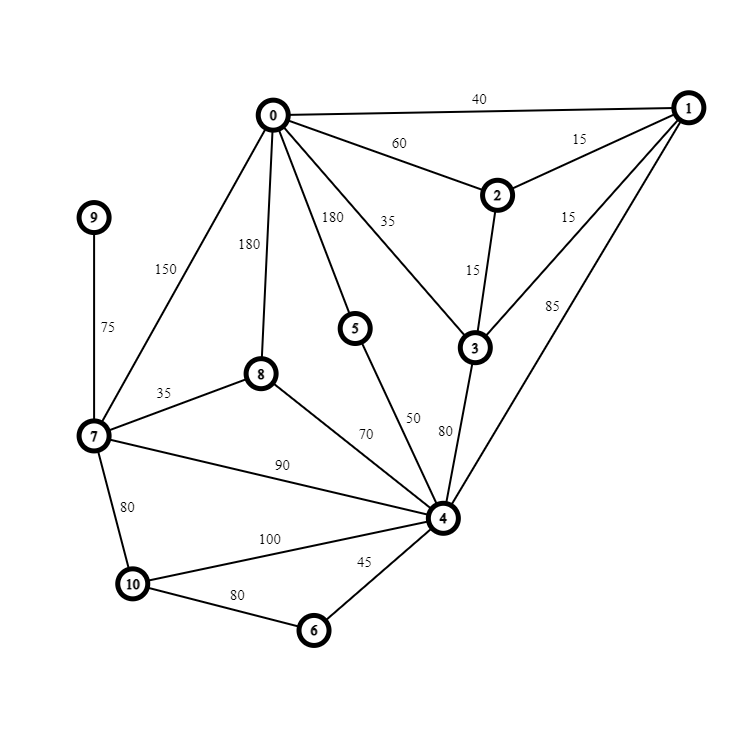
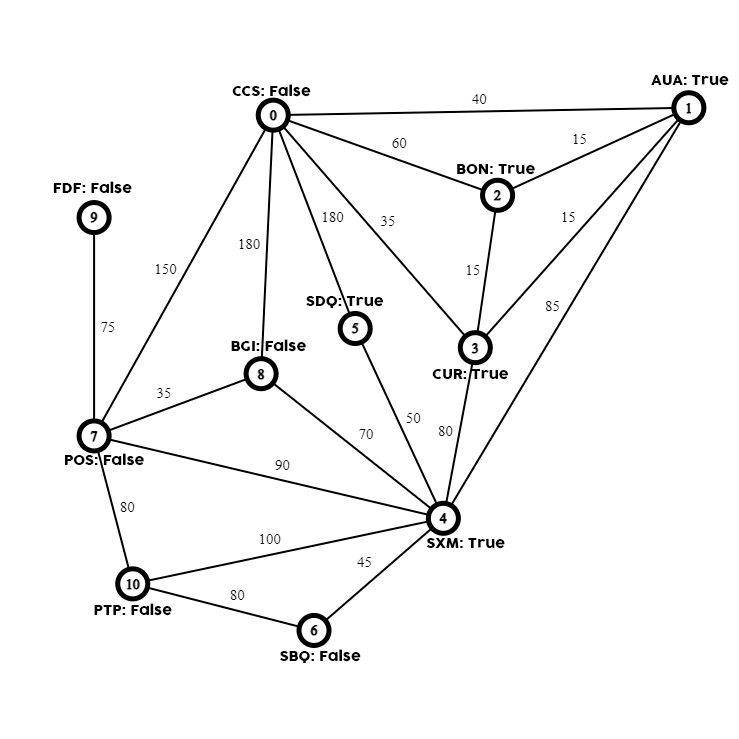
fixed visas

diff --git a/main.py b/main.py
@@ -1,9 +1,10 @@
-import sys, os
+import os
 from graph import Graph
 from dijkstra import dijkstra
 from bfs import minEdgeBFS
 from tracker import track_path
 from show_graph import show_graph
+from read_data import edge_list, vertices, int2label, visas, nombres
 
 # Revisa si el usuario tiene las dependencias instaladas y si no las instala
 try:
@@ -24,32 +25,6 @@ def clear(): # Limpia la consola
     else: #para mac y linux
         _ = os.system('clear')
 
-# Inicializamos los diccionarios vacios
-edge_list = []
-vertices = {}
-int2label = {}
-visas = {}
-nombres = {}
-
-with open(os.path.join(sys.path[0], 'destinos.txt'), "r") as destinos: # Abre el archivo destinos.txt
-    destinos = destinos.read().splitlines() # Separa las lineas del archivo
-    for i in destinos: # Recorre todas las lineas del archivo
-        num,destino = i.split(":") # Separa el numero de vertice y los datos del vertice
-        vertices[destino.split(",")[0]] = int(num) # Agrega el numero de vertice y el nombre del vertice al diccionario vertices
-        int2label[int(num)] = destino.split(",")[0] # Agrega el numero de vertice y el nombre del vertice al diccionario int2label
-        nombres[int(num)] = destino.split(",")[1] # Agrega el nombre completo del vertice al diccionario nombres
-        visas[int(num)] = destino.split(",")[2] # Agrega el numero de vertice y un booleano indicando si tiene visa
-
-with open(os.path.join(sys.path[0], 'tarifas.txt'), "r") as tarifas: # Abre el archivo tarifas.txt
-    next(tarifas) # Salta la primera linea
-    tarifas = tarifas.read().splitlines() # Separa las lineas del archivo
-    for i in tarifas: # Recorre todas las lineas del archivo
-        data = i.split(",") # Separa los datos de la linea
-        source = vertices[data[0]] # Obtiene el numero de vertice del origen
-        target = vertices[data[1]] # Obtiene el numero de vertice del destino
-        weight = int(data[2]) # Obtiene el peso de la arista
-        edge_list.append([source, target, weight]) # Agregamos los datos a la lista de aristas
-
 max_vertices = len(vertices) # Obtiene el numero de vertices del grafo
 
 #print(np.array(edge_list)) # Imprime la lista de vertices bonita
@@ -64,9 +39,6 @@ for i in range(graph.v): # Recorre todas las filas de la matriz del grafo origin
     for j in range(graph.v): # Recorre todas las columnas de la matriz del grafo original
         if graph.edges[i][j] != -1: # Si existe una arista entre los vertices
             G.add_edge(i,j,weight=graph.edges[i][j])  # Agrega la arista al grafo con la libreria networkx
-
-
-
 
 
 xy_axis = [['Numero', 'Ciudad']] # Creamos el titulo de la tabla
@@ -163,6 +135,9 @@ while True:
 
 
 if ruta == 1: # Si el usuario eligio la ruta mas barata
+    if tiene_visa == False and visas[destino] == "True": # Si el usuario no tiene visa y la ciudad de destino requiere visa
+        print("\n" + Fore.RED + f"{nombres[destino]} requiere visa, por lo que no es posible que usted viaje a ella" + Fore.RESET) # Imprimimos que no es posible viajar a la ciudad de destino
+        exit() # Salimos del programa
     shortest_paths,pred_dijkstra = dijkstra(graph, origen, tiene_visa) # Obtenemos los caminos mas baratos y los predecesores
     path = track_path(origen, destino, pred_dijkstra) # Obtenemos el camino mas barato entre los vertices de origen y destino mediante los predecesores
     show_graph(path, G, int2label) # Mostramos el grafo con el camino mas barato
@@ -171,10 +146,11 @@ if ruta == 1: # Si el usuario eligio la ruta mas barata
         path[count] = int2label[i] # Cambiamos los vertices por sus nombres
         count += 1 # Aumentamos el contador ayudante
     print(f"\nLa ruta mas barata es: {path}") # Imprimimos el camino mas barato
-    if tiene_visa == False and visas[destino] == True: # Si el usuario no tiene visa y la ciudad de destino requiere visa
-        print("\n" + Fore.RED + f"Sin embargo, {nombres[destino]} requiere visa, por lo que no es posible que usted viaje a ella" + Fore.RESET) # Imprimimos que no es posible viajar a la ciudad de destino
 
 elif ruta == 2: # Si el usuario eligio la ruta menos segmentos de vuelo
+    if tiene_visa == False and visas[destino] == "True": # Si el usuario no tiene visa y la ciudad de destino requiere visa
+        print("\n" + Fore.RED + f"{nombres[destino]} requiere visa, por lo que no es posible que usted viaje a ella" + Fore.RESET) # Imprimimos que no es posible viajar a la ciudad de destino
+        exit() # Salimos del programa
     min_edges,pred_bfs = minEdgeBFS(graph, origen) # Obtenemos los caminos menos segmentos de vuelo y los predecesores
     path = track_path(origen, destino, pred_bfs) # Obtenemos el camino menos segmentos de vuelo entre los vertices de origen y destino mediante los predecesores
     show_graph(path, G, int2label) # Mostramos el grafo con el camino menos segmentos de vuelo
@@ -183,5 +159,3 @@ elif ruta == 2: # Si el usuario eligio la ruta menos segmentos de vuelo
         path[count] = int2label[i] # Cambiamos los vertices por sus nombres
         count += 1 # Aumentamos el contador ayudante
     print(f"\nLa ruta con menos segmentos es: {path}") # Imprimimos el camino menos segmentos de vuelo
-    if tiene_visa == False and visas[destino] == True: # Si el usuario no tiene visa y la ciudad de destino requiere visa
-        print("\n" + Fore.RED + f"Sin embargo, {nombres[destino]} requiere visa, por lo que no es posible que usted viaje a ella" + Fore.RESET) # Imprimimos que no es posible viajar a la ciudad de destino

diff --git a/dijkstra.py b/dijkstra.py
@@ -1,11 +1,12 @@
 from queue import PriorityQueue
+from read_data import visas
 
 def dijkstra(graph, start_vertex, tiene_visa): # start_vertex es el nodo inicial, tiene_visa es un booleano que indica si el viajero tiene visa o no
     shortest_paths = {v:float('inf') for v in range(graph.v)} # Inicializamos la distancia hacia cada nodo a infinito
     pred = {i:None for i in range(graph.v)} # Inicializamos el predecesor de cada nodo a None
     visited = {n:False for n in range(graph.v)} # Inicializamos la lista de visitados a 0 en cada vertice
     shortest_paths[start_vertex] = 0 # El nodo inicial tiene distancia 0
-    
+
     pq = PriorityQueue() # Inicializamos una cola de prioridad para ordenar rapidamente los nodos por distancia
     pq.put((0, start_vertex)) # Colocamos el nodo inicial en la cola de prioridad
 
@@ -13,18 +14,25 @@ def dijkstra(graph, start_vertex, tiene_visa): # start_vertex es el nodo inicial
         (dist, current_vertex) = pq.get() # Obtenemos el nodo con mayor prioridad en la cola, que es el de menor distancia
         visited[current_vertex] = True # Colocamos el nodo como visitado
         for neighbor in range(graph.v): # Para cada nodo vecino
-            if graph.edges[current_vertex][neighbor] != -1: # Si existe una arista entre el nodo actual y el vecino
-                '''
-                if tiene_visa == False and visas[neighbor] == True: # Si el viajero no tiene visa y el nodo vecino si la requiere    
+            queued = False # Inicializamos el asistente que revisara si el nodo ya esta encolado
+            if graph.edges[current_vertex][neighbor] != -1 and current_vertex != neighbor: # Si existe una arista entre el nodo actual y el vecino
+
+                if not tiene_visa and visas[neighbor] == "True": # Si el viajero no tiene visa y el nodo vecino si la requiere
                     continue # No se puede llegar a ese nodo, lo saltamos y continuamos con el siguiente nodo vecino
-                '''
-                if visited[neighbor] == False: # Si el vecino no ha sido visitado
+                
+                if not visited[neighbor]: # Si el vecino no ha sido visitado
                     distance = graph.edges[current_vertex][neighbor] # Obtenemos la distancia entre el nodo actual y el vecino
                     old_cost = shortest_paths[neighbor] # Obtenemos la vieja distancia hacia el vecino
                     new_cost = shortest_paths[current_vertex] + distance # Calculamos la nueva distancia hacia el vecino
+
                     if new_cost < old_cost: # Si la nueva distancia es menor que la vieja
-                        pq.put((new_cost, neighbor)) # Colocamos el vecino en la cola de prioridad
+                        for i in pq.queue: # Para cada nodo en la cola de prioridad
+                            if neighbor == i[-1]: # Si el nodo vecino esta en la cola de prioridad
+                                queued = True # Colocamos el asistente en True
+
+                        if not queued: # Si el asistente esta en False
+                            pq.put((new_cost, neighbor)) # Colocamos el vecino en la cola de prioridad
                         shortest_paths[neighbor] = new_cost # Actualizamos la distancia hacia el vecino
                         pred[neighbor] = current_vertex # Actualizamos el predecesor del vecino
-
+                        
     return shortest_paths,pred # Retornamos las distancias hacia cada nodo y el predecesor

diff --git a/bfs.py b/bfs.py
@@ -1,6 +1,7 @@
 from queue import Queue
+from read_data import visas
 
-def minEdgeBFS(graph, start_vertex): # u es el nodo inicial, v es el nodo final
+def minEdgeBFS(graph, start_vertex, tiene_visa): # start_vertex es el nodo inicial, tiene_visa es un booleano que indica si el viajero tiene visa o no
     pred = {i:None for i in range(graph.v)} # Inicializamos el predecesor de cada nodo a None
     visited = {n:False for n in range(graph.v)} # Inicializamos la lista de visitados a False en cada vertice
     minimun_edges = {v:float("inf") for v in range(graph.v)} # Inicializamos la distancia hacia cada nodo a infinito
@@ -12,10 +13,15 @@ def minEdgeBFS(graph, start_vertex): # u es el nodo inicial, v es el nodo final
     while not Q.empty(): # Mientras la cola no este vacia
         current_vertex = Q.get() # Obtenemos el nodo con mayor prioridad en la cola
         for neighbor in range(graph.v): # Para cada nodo vecino
-            if graph.edges[current_vertex][neighbor] != -1 and visited[neighbor] == False: # Si existe una arista entre el nodo actual y el vecino y el vecino no ha sido visitado
-                pred[neighbor] = current_vertex # Actualizamos el predecesor del vecino
-                minimun_edges[neighbor] = minimun_edges[current_vertex] + 1 # Actualizamos la distancia hacia el vecino
-                Q.put(neighbor) # Colocamos el vecino en la cola
-                visited[neighbor] = True # Marcamos el vecino como visitado
+            if graph.edges[current_vertex][neighbor] != -1 and current_vertex != neighbor: # Si existe una arista entre el nodo actual y el vecino y el nodo actual no es el vecino
+                
+                if not tiene_visa and visas[neighbor] == "True": # Si el viajero no tiene visa y el nodo vecino si la requiere
+                    continue # No se puede llegar a ese nodo, lo saltamos y continuamos con el siguiente nodo vecino
+                
+                if not visited[neighbor]: # Si el vecino no ha sido visitado
+                    pred[neighbor] = current_vertex # Actualizamos el predecesor del vecino
+                    minimun_edges[neighbor] = minimun_edges[current_vertex] + 1 # Actualizamos la distancia hacia el vecino
+                    Q.put(neighbor) # Colocamos el vecino en la cola
+                    visited[neighbor] = True # Marcamos el vecino como visitado
 
     return minimun_edges,pred # Retornamos las distancias hacia cada nodo y el predecesor

diff --git a/read_data.py b/read_data.py
@@ -1,0 +1,27 @@
+import os,sys
+
+# Inicializamos los diccionarios vacios
+edge_list = []
+vertices = {}
+int2label = {}
+visas = {}
+nombres = {}
+
+with open(os.path.join(sys.path[0], 'destinos.txt'), "r") as destinos: # Abre el archivo destinos.txt
+    destinos = destinos.read().splitlines() # Separa las lineas del archivo
+    for i in destinos: # Recorre todas las lineas del archivo
+        num,destino = i.split(":") # Separa el numero de vertice y los datos del vertice
+        vertices[destino.split(",")[0]] = int(num) # Agrega el numero de vertice y el nombre del vertice al diccionario vertices
+        int2label[int(num)] = destino.split(",")[0] # Agrega el numero de vertice y el nombre del vertice al diccionario int2label
+        nombres[int(num)] = destino.split(",")[1] # Agrega el nombre completo del vertice al diccionario nombres
+        visas[int(num)] = destino.split(",")[2] # Agrega el numero de vertice y un booleano indicando si tiene visa
+
+with open(os.path.join(sys.path[0], 'tarifas.txt'), "r") as tarifas: # Abre el archivo tarifas.txt
+    next(tarifas) # Salta la primera linea
+    tarifas = tarifas.read().splitlines() # Separa las lineas del archivo
+    for i in tarifas: # Recorre todas las lineas del archivo
+        data = i.split(",") # Separa los datos de la linea
+        source = vertices[data[0]] # Obtiene el numero de vertice del origen
+        target = vertices[data[1]] # Obtiene el numero de vertice del destino
+        weight = int(data[2]) # Obtiene el peso de la arista
+        edge_list.append([source, target, weight]) # Agregamos los datos a la lista de aristas
